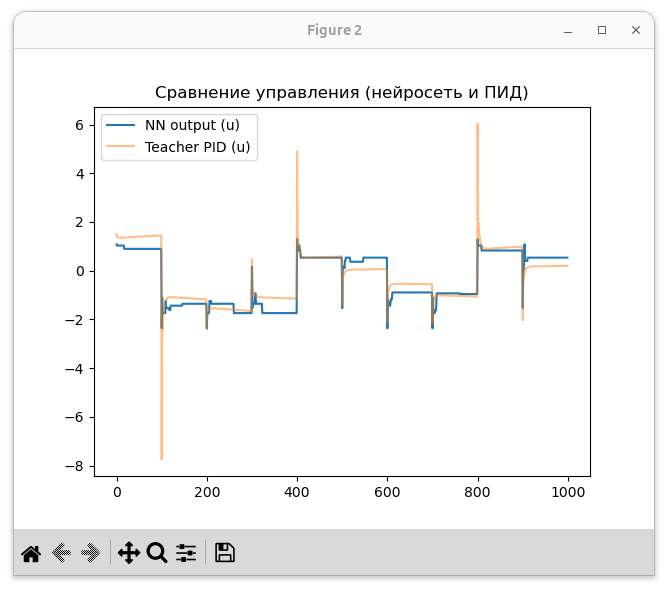
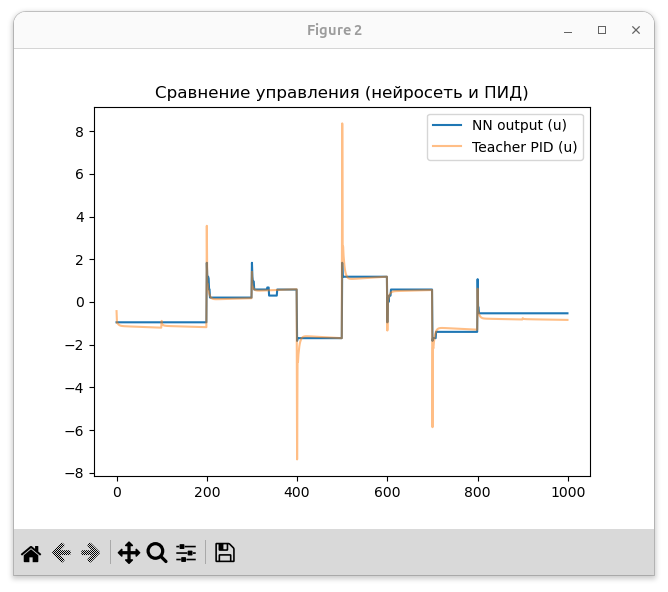
Обновленные графики для новой функции активации

diff --git a/NN_Learning.py b/NN_Learning.py
@@ -145,8 +145,6 @@ plt.title('Ошибка обучения нейросети')
 plt.legend()
 plt.grid(True)
 
-plt.show()
-
 #График управляющего сигнала
 plt.figure()
 plt.plot(predict_test, label="NN output (u)")